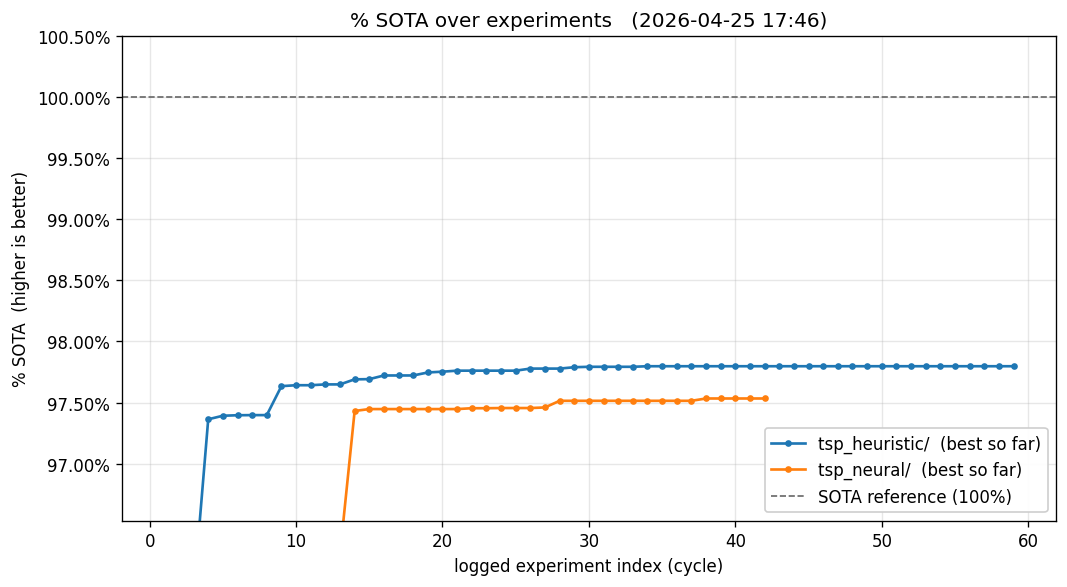
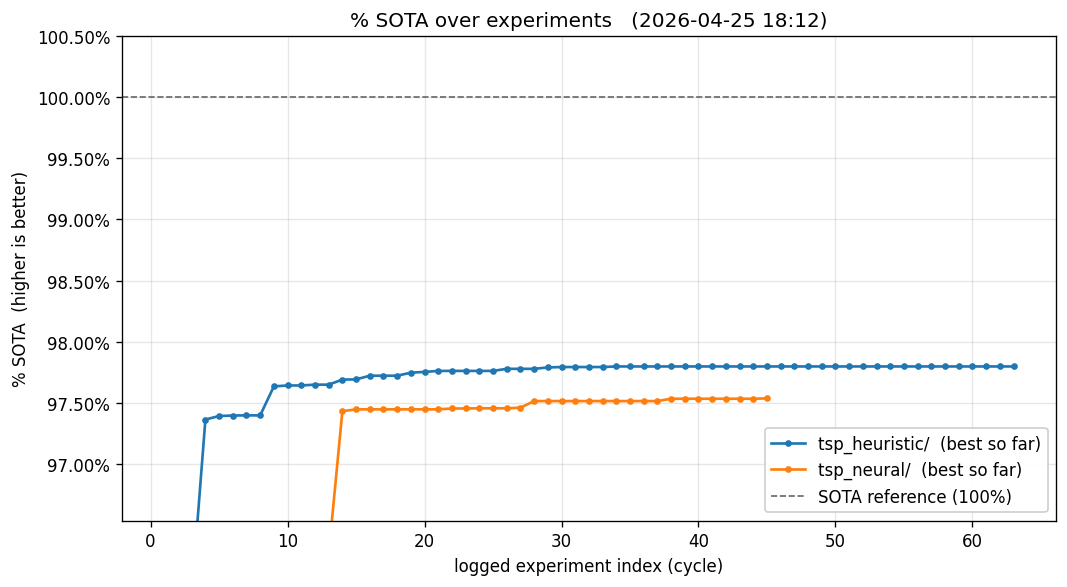
docs: status + chart refresh (auto-tick 18:12) — neural ticks up again
Neural: 42→46 cycles. NEW BEST 1,551,306 (commit 0d1a8c9, C14 PILS+H=16
distill) — −43 vs prior. Inference 12.3B vs 10.7B (workers go deeper
in 25s); 6 accept batches vs 5. Badge: 97.53% → 97.54%. Speed lever
applies in parallel where it couldn't in sequential.

Heuristic: 60→64 cycles. Best still 1,547,351. PILSens14 (14 workers)
hit same basin floor 1,547,711 as 8-worker; PILSdiv (8 workers x diverse
params) same 1,547,714 — param diversity doesn't break the floor either.
PILSw4d (4-worker ensemble, 0xBEEF pinned w0): 1,547,439 (kept as new
parallel-mode reference; doesn't beat sequential X8).

diff --git a/README.md b/README.md
@@ -100,14 +100,14 @@ by a periodic cron job (see `chart-progress` skill).
 
 ## Status
 
-*As of 2026-04-25 17:41 EDT. SOTA = 1,514,000 (Santa 2018 top
+*As of 2026-04-25 18:12 EDT. SOTA = 1,514,000 (Santa 2018 top
 public-LB). `val_cost` is the official Santa 2018 cost (lower is
 better). `% SOTA` = `100 − gap`, where `gap = (val_cost − SOTA) / SOTA`.*
 
 | Loop | % SOTA | Best `val_cost` | Cycles |
 |---|---|---|---|
-| `tsp_heuristic/` | 97.80% | 1,547,351 | 60 |
-| `tsp_neural/`    | 97.53% | 1,551,348 | 42 |
+| `tsp_heuristic/` | 97.80% | 1,547,351 | 64 |
+| `tsp_neural/`    | 97.54% | 1,551,306 | 46 |
 
 ![Progress](progress.png)
 
